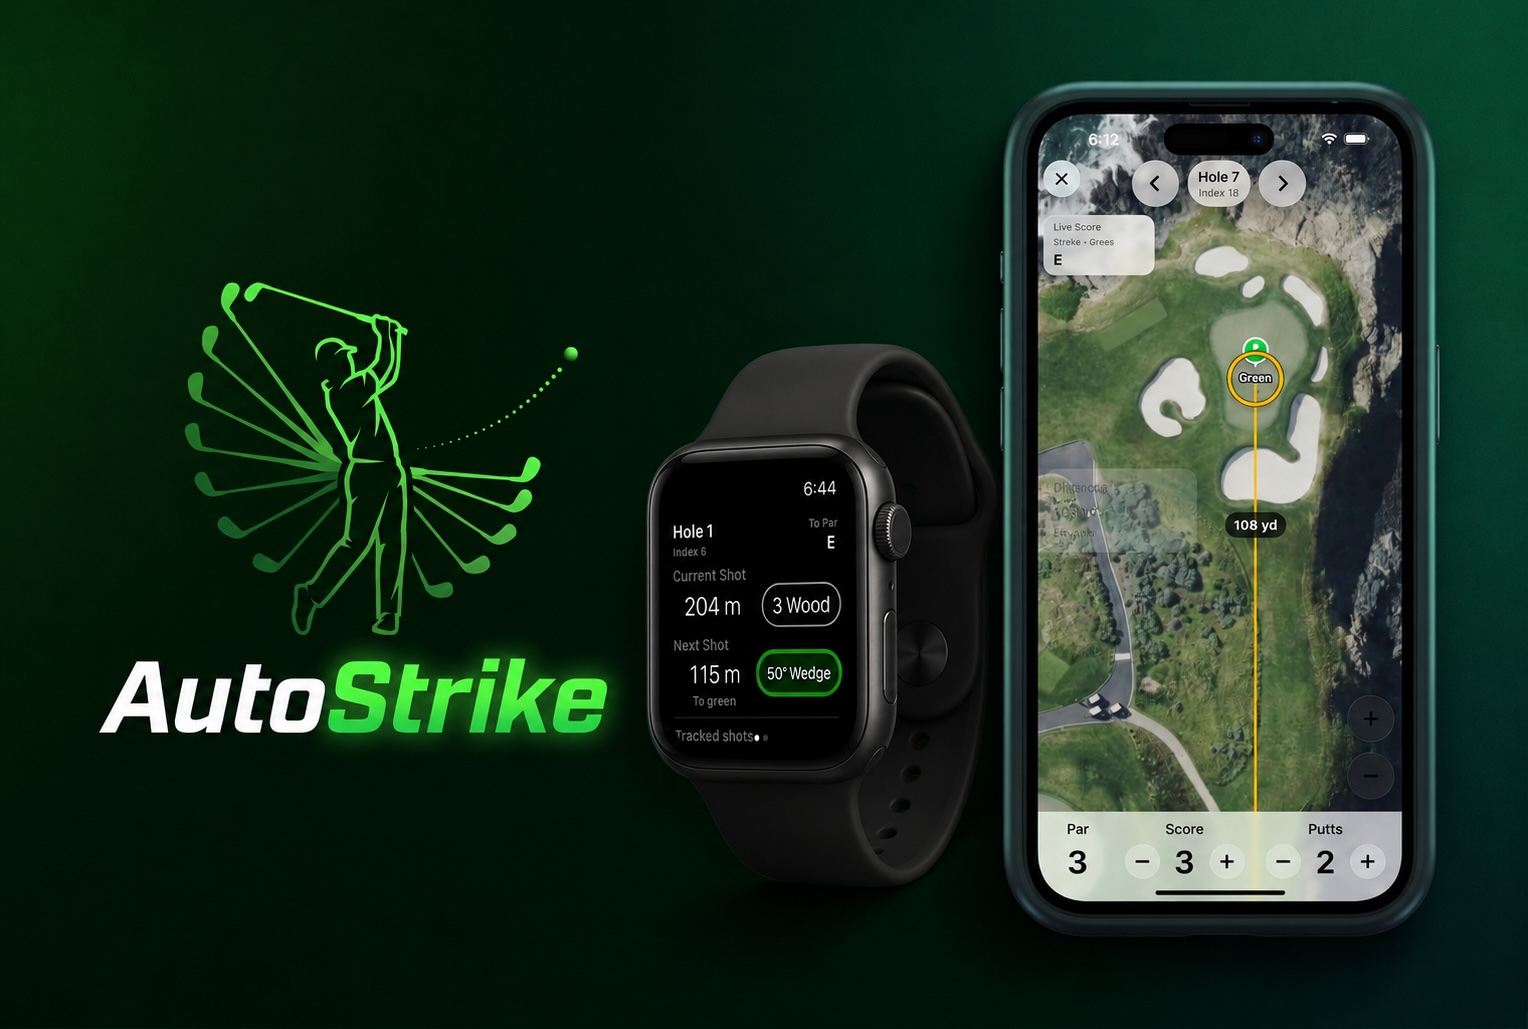
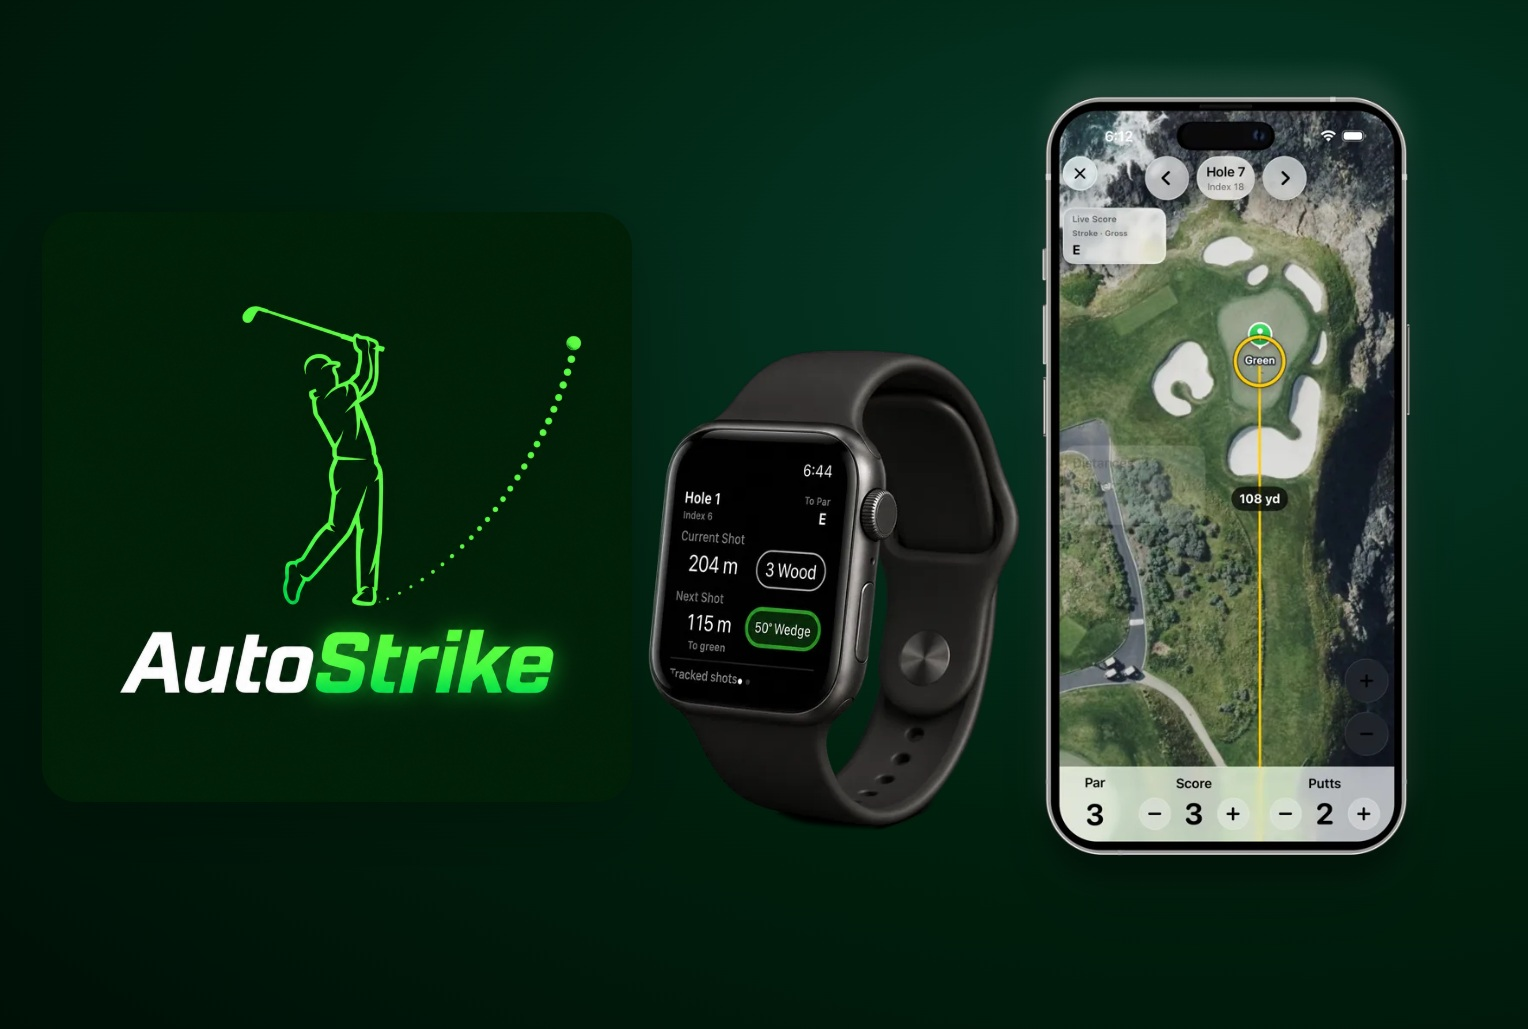
Update AutoStrike branding across website and share previews
Use the refined golfer logo throughout the landing and round pages, favicons, touch icons and social previews. Version asset URLs to refresh browser caches.

Changed region(s): [[0.0615, 0.0622, 0.9535, 0.9329], [0.892, 0.0, 1.0, 0.0933], [0.3691, 0.311, 0.3999, 0.3732]]

diff --git a/index.html b/index.html
@@ -6,19 +6,19 @@
   <title>AutoStrike Golf — Auto Shot Tracking & GPS Golf Companion</title>
   <meta name="description" content="AutoStrike Golf — automatic shot tracking, real-time GPS distances, and live scoring for golf courses worldwide.">
   <link rel="stylesheet" href="style.css?v=polish">
-  <link rel="icon" type="image/png" href="logo-64.png">
-  <link rel="apple-touch-icon" href="logo-64.png">
+  <link rel="icon" type="image/png" href="logo-64.png?v=20261011">
+  <link rel="apple-touch-icon" href="apple-touch-icon.png?v=20261011">
   <link rel="canonical" href="https://autostrikegolf.com/">
   <link rel="sitemap" type="application/xml" href="/sitemap.xml">
   <meta property="og:type" content="website">
   <meta property="og:title" content="AutoStrike Golf — Auto Shot Tracking & GPS Golf Companion">
   <meta property="og:description" content="Automatic shot tracking, real-time GPS distances, and live scoring for golf courses worldwide.">
   <meta property="og:url" content="https://autostrikegolf.com/">
-  <meta property="og:image" content="https://autostrikegolf.com/og-share-v4.jpg">
+  <meta property="og:image" content="https://autostrikegolf.com/og-share-v5.jpg">
   <meta property="og:image:width" content="1528">
   <meta property="og:image:height" content="1029">
   <meta name="twitter:card" content="summary_large_image">
-  <meta name="twitter:image" content="https://autostrikegolf.com/og-share-v4.jpg">
+  <meta name="twitter:image" content="https://autostrikegolf.com/og-share-v5.jpg">
   <meta name="twitter:title" content="AutoStrike Golf — Auto Shot Tracking & GPS Golf Companion">
   <meta name="twitter:description" content="Automatic shot tracking, real-time GPS distances, and live scoring for golf courses worldwide.">
   <meta name="robots" content="index, follow">
@@ -51,7 +51,7 @@
 
 <nav>
   <div class="nav-inner">
-    <a href="#" class="logo"><img src="logo.webp" alt="AutoStrike" class="logo-img"><span class="logo-text">AutoStrike <span class="gold">Golf</span></span></a>
+    <a href="#" class="logo"><img src="logo.webp?v=20261011" alt="AutoStrike" class="logo-img"><span class="logo-text">AutoStrike <span class="gold">Golf</span></span></a>
     <ul class="nav-links">
       <li><a href="#features">Features</a></li>
       <li><a href="#courses">Courses</a></li>

diff --git a/terms.html b/terms.html
@@ -6,8 +6,8 @@
   <title>Terms of Use — AutoStrike Golf</title>
   <meta name="description" content="AutoStrike Golf terms of use: subscriptions, acceptable use, course data, safety, and account terms.">
   <link rel="stylesheet" href="/style.css">
-  <link rel="icon" type="image/png" href="/logo-64.png">
-  <link rel="apple-touch-icon" href="/logo-64.png">
+  <link rel="icon" type="image/png" href="/logo-64.png?v=20261011">
+  <link rel="apple-touch-icon" href="/apple-touch-icon.png?v=20261011">
   <style>
     .legal { padding: 140px 24px 80px; }
     .legal-inner { max-width: 800px; margin: 0 auto; color: var(--text); }
@@ -23,7 +23,7 @@
 
 <nav>
   <div class="nav-inner">
-    <a href="/" class="logo"><img src="/logo.webp" alt="AutoStrike" class="logo-img"><span class="logo-text">AutoStrike <span class="gold">Golf</span></span></a>
+    <a href="/" class="logo"><img src="/logo.webp?v=20261011" alt="AutoStrike" class="logo-img"><span class="logo-text">AutoStrike <span class="gold">Golf</span></span></a>
     <ul class="nav-links">
       <li><a href="/#features">Features</a></li>
       <li><a href="/#courses">Courses</a></li>

diff --git a/terms/index.html b/terms/index.html
@@ -6,8 +6,8 @@
   <title>Terms of Use — AutoStrike Golf</title>
   <meta name="description" content="AutoStrike Golf terms of use: subscriptions, acceptable use, course data, safety, and account terms.">
   <link rel="stylesheet" href="/style.css">
-  <link rel="icon" type="image/png" href="/logo-64.png">
-  <link rel="apple-touch-icon" href="/logo-64.png">
+  <link rel="icon" type="image/png" href="/logo-64.png?v=20261011">
+  <link rel="apple-touch-icon" href="/apple-touch-icon.png?v=20261011">
   <style>
     .legal { padding: 140px 24px 80px; }
     .legal-inner { max-width: 800px; margin: 0 auto; color: var(--text); }
@@ -23,7 +23,7 @@
 
 <nav>
   <div class="nav-inner">
-    <a href="/" class="logo"><img src="/logo.webp" alt="AutoStrike" class="logo-img"><span class="logo-text">AutoStrike <span class="gold">Golf</span></span></a>
+    <a href="/" class="logo"><img src="/logo.webp?v=20261011" alt="AutoStrike" class="logo-img"><span class="logo-text">AutoStrike <span class="gold">Golf</span></span></a>
     <ul class="nav-links">
       <li><a href="/#features">Features</a></li>
       <li><a href="/#courses">Courses</a></li>

diff --git a/privacy.html b/privacy.html
@@ -6,8 +6,8 @@
   <title>Privacy Policy — AutoStrike Golf</title>
   <meta name="description" content="AutoStrike Golf privacy policy: what we collect, how we use it, and your rights.">
   <link rel="stylesheet" href="style.css">
-  <link rel="icon" type="image/png" href="logo-64.png">
-  <link rel="apple-touch-icon" href="logo-64.png">
+  <link rel="icon" type="image/png" href="logo-64.png?v=20261011">
+  <link rel="apple-touch-icon" href="apple-touch-icon.png?v=20261011">
   <style>
     .legal { padding: 140px 24px 80px; }
     .legal-inner { max-width: 800px; margin: 0 auto; color: var(--text); }
@@ -23,7 +23,7 @@
 
 <nav>
   <div class="nav-inner">
-    <a href="/" class="logo"><img src="logo.webp" alt="AutoStrike" class="logo-img"><span class="logo-text">AutoStrike <span class="gold">Golf</span></span></a>
+    <a href="/" class="logo"><img src="logo.webp?v=20261011" alt="AutoStrike" class="logo-img"><span class="logo-text">AutoStrike <span class="gold">Golf</span></span></a>
     <ul class="nav-links">
       <li><a href="/#features">Features</a></li>
       <li><a href="/#courses">Courses</a></li>

diff --git a/support.html b/support.html
@@ -6,8 +6,8 @@
   <title>Support — AutoStrike Golf</title>
   <meta name="description" content="Get help with AutoStrike Golf. Report a bug, request a course, or ask a question.">
   <link rel="stylesheet" href="style.css">
-  <link rel="icon" type="image/png" href="logo-64.png">
-  <link rel="apple-touch-icon" href="logo-64.png">
+  <link rel="icon" type="image/png" href="logo-64.png?v=20261011">
+  <link rel="apple-touch-icon" href="apple-touch-icon.png?v=20261011">
   <style>
     .support { padding: 100px 24px 80px; }
     .support-inner { max-width: 640px; margin: 0 auto; }
@@ -44,7 +44,7 @@
 
 <nav>
   <div class="nav-inner">
-    <a href="/" class="logo"><img src="logo.webp" alt="AutoStrike" class="logo-img"><span class="logo-text">AutoStrike <span class="gold">Golf</span></span></a>
+    <a href="/" class="logo"><img src="logo.webp?v=20261011" alt="AutoStrike" class="logo-img"><span class="logo-text">AutoStrike <span class="gold">Golf</span></span></a>
     <ul class="nav-links">
       <li><a href="/#features">Features</a></li>
       <li><a href="/#courses">Courses</a></li>

diff --git a/round/index.html b/round/index.html
@@ -10,14 +10,14 @@
   <meta name="referrer" content="no-referrer">
   <link rel="stylesheet" href="/style.css">
   <link rel="stylesheet" href="/round/round.css?v=ownerputts1">
-  <link rel="icon" type="image/png" href="/logo-64.png">
-  <link rel="apple-touch-icon" href="/logo-64.png">
+  <link rel="icon" type="image/png" href="/logo-64.png?v=20261011">
+  <link rel="apple-touch-icon" href="/apple-touch-icon.png?v=20261011">
 </head>
 <body class="round-page">
   <main class="round-shell" id="round-root">
     <section class="round-card round-status-card">
       <a class="round-logo" href="/">
-        <img src="/logo.webp" alt="AutoStrike Golf">
+        <img src="/logo.webp?v=20261011" alt="AutoStrike Golf">
         <span>AutoStrike <strong>Golf</strong></span>
       </a>
       <p class="round-eyebrow">Shared round</p>

diff --git a/round/round.js b/round/round.js
@@ -346,7 +346,7 @@ function ordinal(value) {
 function logoMarkup() {
   return `
     <a class="round-logo" href="/">
-      <img src="/logo.webp" alt="AutoStrike Golf">
+      <img src="/logo.webp?v=20261011" alt="AutoStrike Golf">
       <span>AutoStrike <strong>Golf</strong></span>
     </a>
   `;
